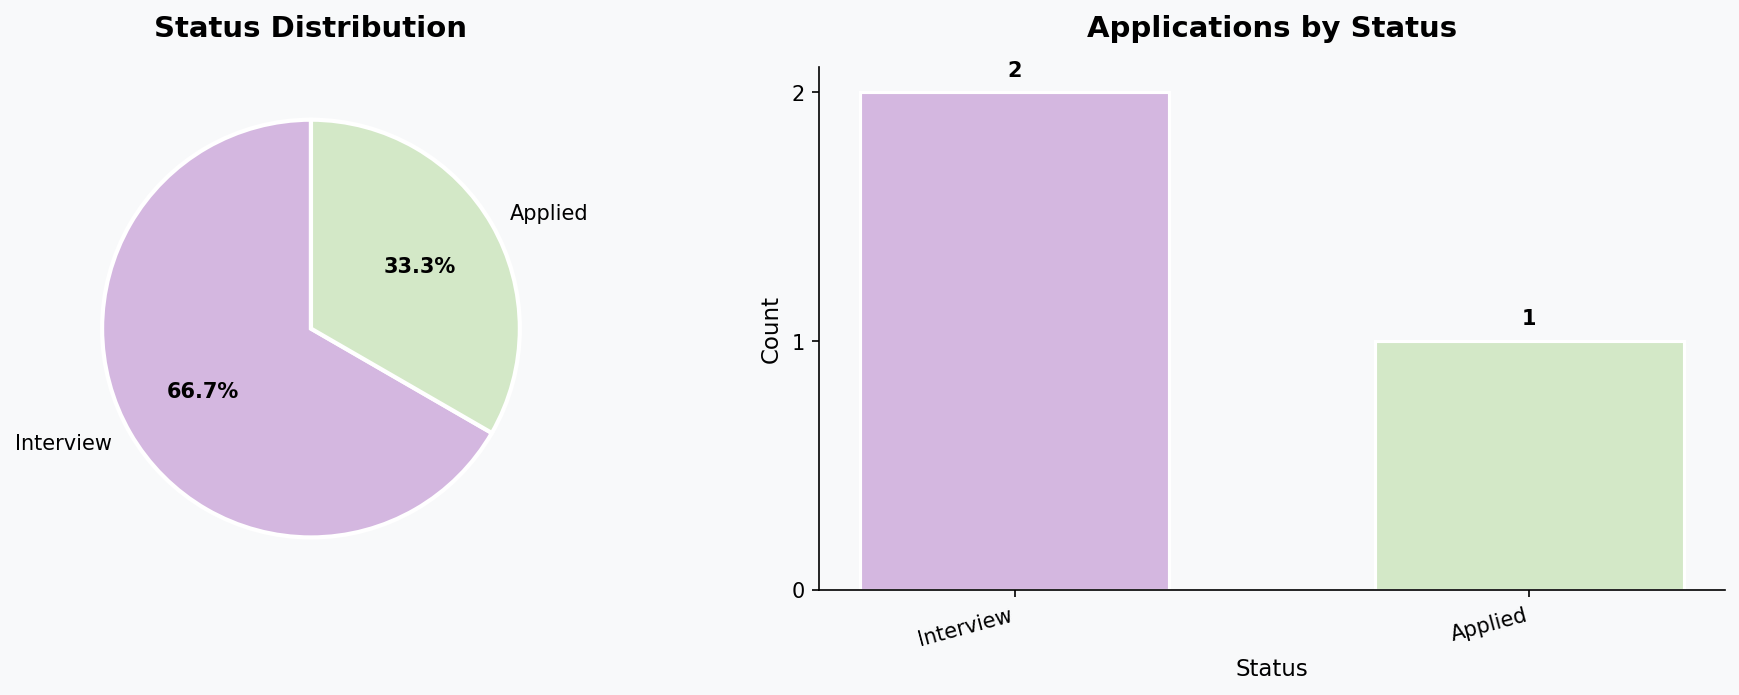
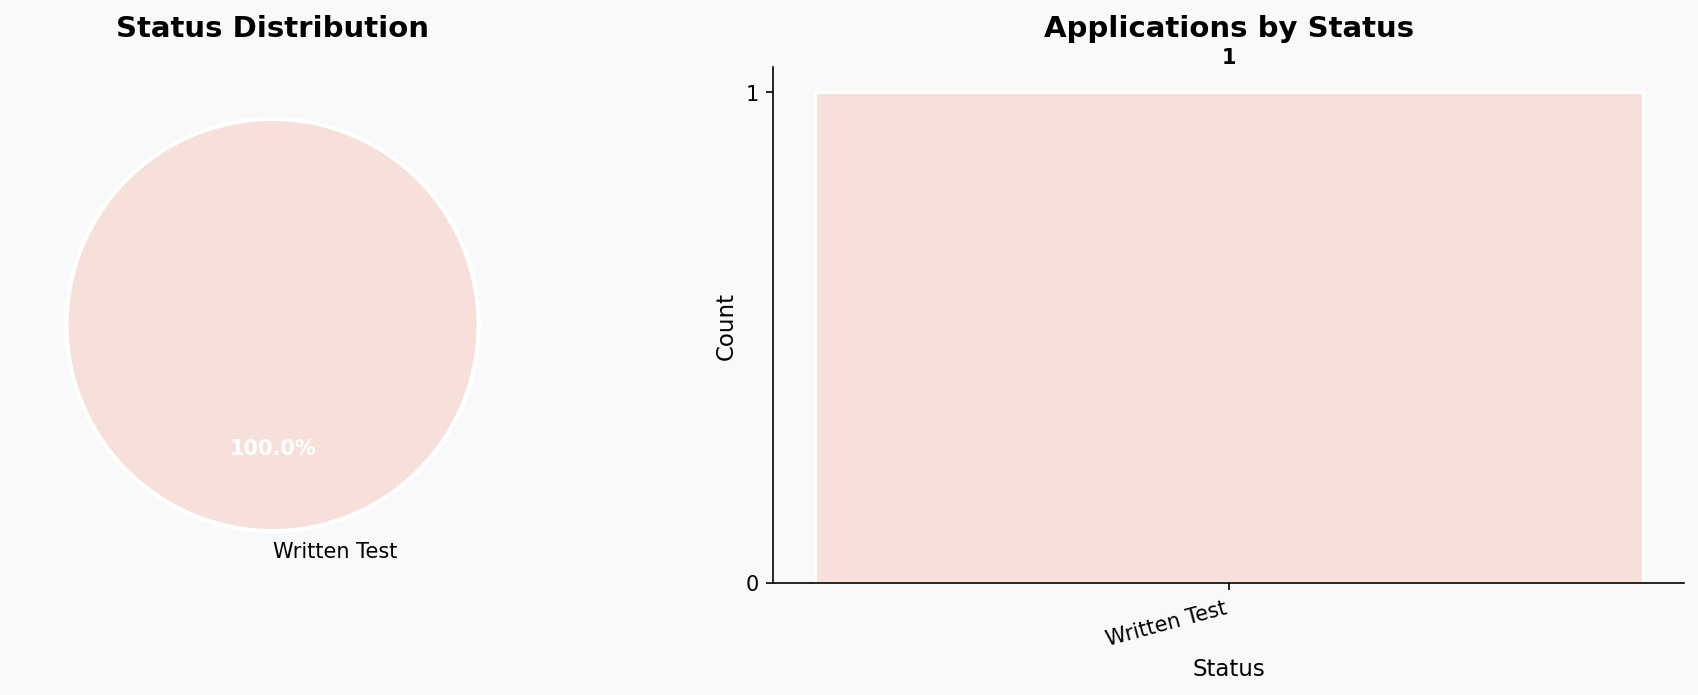
emial resume

diff --git a/templates/stats_page.html b/templates/stats_page.html
@@ -1,0 +1,286 @@
+<!DOCTYPE html>
+<html lang="en">
+<head>
+    <meta charset="UTF-8">
+    <title>Statistics</title>
+    <link rel="stylesheet" href="/static/style.css">
+    <script src="https://cdnjs.cloudflare.com/ajax/libs/Chart.js/4.4.0/chart.umd.min.js"></script>
+    <style>
+        body { background: #f0f2f5; }
+        .page-title {
+            font-size: 24px;
+            font-weight: 700;
+            color: #2c3e50;
+            margin-bottom: 24px;
+        }
+        .stats-grid {
+            display: grid;
+            grid-template-columns: repeat(5, 1fr);
+            gap: 14px;
+            margin-bottom: 24px;
+        }
+        .stat-box {
+            background: white;
+            border-radius: 12px;
+            padding: 20px;
+            text-align: center;
+            box-shadow: 0 2px 8px rgba(0,0,0,0.07);
+            border-top: 4px solid #ddd;
+        }
+        .stat-box h3 {
+            font-size: 32px;
+            font-weight: 700;
+            margin-bottom: 6px;
+        }
+        .stat-box p {
+            font-size: 12px;
+            color: #888;
+            text-transform: uppercase;
+            letter-spacing: 0.5px;
+        }
+        .stat-total { border-top-color: #2c3e50; }
+        .stat-total h3 { color: #2c3e50; }
+        .stat-interview { border-top-color: #9b59b6; }
+        .stat-interview h3 { color: #9b59b6; }
+        .stat-offer { border-top-color: #27ae60; }
+        .stat-offer h3 { color: #27ae60; }
+        .stat-rejected { border-top-color: #e74c3c; }
+        .stat-rejected h3 { color: #e74c3c; }
+        .stat-rate { border-top-color: #3498db; }
+        .stat-rate h3 { color: #3498db; }
+        .charts-grid {
+            display: grid;
+            grid-template-columns: 1fr 1fr;
+            gap: 20px;
+            margin-bottom: 20px;
+        }
+        .chart-card {
+            background: white;
+            border-radius: 14px;
+            padding: 24px;
+            box-shadow: 0 2px 10px rgba(0,0,0,0.08);
+        }
+        .chart-card h3 {
+            font-size: 15px;
+            font-weight: 700;
+            color: #2c3e50;
+            margin-bottom: 20px;
+        }
+        .chart-card-full {
+            background: white;
+            border-radius: 14px;
+            padding: 24px;
+            box-shadow: 0 2px 10px rgba(0,0,0,0.08);
+            margin-bottom: 20px;
+        }
+        .chart-card-full h3 {
+            font-size: 15px;
+            font-weight: 700;
+            color: #2c3e50;
+            margin-bottom: 20px;
+        }
+        .funnel-container {
+            display: flex;
+            flex-direction: column;
+            align-items: center;
+            gap: 8px;
+            padding: 10px 0;
+        }
+        .funnel-bar {
+            height: 44px;
+            border-radius: 8px;
+            display: flex;
+            align-items: center;
+            justify-content: center;
+            color: white;
+            font-size: 13px;
+            font-weight: 700;
+            transition: width 0.3s;
+        }
+        .empty-state {
+            text-align: center;
+            color: #ccc;
+            padding: 40px;
+            font-size: 14px;
+        }
+    </style>
+</head>
+<body>
+    <div class="navbar">
+        <div style="display:flex; align-items:center; gap:10px;">
+            <span style="font-size:20px;">📋</span>
+            <div>
+                <div style="font-weight:700; font-size:16px;">Job Application Tracker</div>
+                <div style="font-size:11px; color:#a0aec0; text-transform:uppercase; letter-spacing:1px;">Your Career Dashboard</div>
+            </div>
+        </div>
+        <div>
+            <a href="/dashboard">Dashboard</a>
+            <a href="/logout">Logout</a>
+        </div>
+    </div>
+
+    <div class="container" style="max-width:1100px;">
+        <div class="page-title">📊 Statistics</div>
+
+        <!-- 数字统计 -->
+        <div class="stats-grid">
+            <div class="stat-box stat-total">
+                <h3>{{ stats.total }}</h3>
+                <p>Total Applications</p>
+            </div>
+            <div class="stat-box stat-interview">
+                <h3>{{ stats.interviews }}</h3>
+                <p>Interviews</p>
+            </div>
+            <div class="stat-box stat-offer">
+                <h3>{{ stats.offers }}</h3>
+                <p>Offers</p>
+            </div>
+            <div class="stat-box stat-rejected">
+                <h3>{{ stats.rejected }}</h3>
+                <p>Rejected</p>
+            </div>
+            <div class="stat-box stat-rate">
+                <h3>{{ stats.interview_rate }}%</h3>
+                <p>Interview Rate</p>
+            </div>
+        </div>
+
+        {% if stats.total == 0 %}
+        <div class="chart-card">
+            <div class="empty-state">
+                <div style="font-size:48px; margin-bottom:16px;">📭</div>
+                <p>No applications yet. Add some to see your statistics!</p>
+            </div>
+        </div>
+        {% else %}
+
+        <!-- 图表1：饼图 + 柱状图 -->
+        <div class="charts-grid">
+            <div class="chart-card">
+                <h3>🥧 Status Distribution</h3>
+                <canvas id="pieChart" height="250"></canvas>
+            </div>
+            <div class="chart-card">
+                <h3>📊 Applications by Status</h3>
+                <canvas id="barChart" height="250"></canvas>
+            </div>
+        </div>
+
+        <!-- 图表2：折线图 -->
+        <div class="chart-card-full">
+            <h3>📈 Weekly Application Trend</h3>
+            {% if weekly_labels %}
+            <canvas id="lineChart" height="100"></canvas>
+            {% else %}
+            <div class="empty-state">Not enough data to show trend yet.</div>
+            {% endif %}
+        </div>
+
+        <!-- 图表3：漏斗图 -->
+        <div class="chart-card-full">
+            <h3>🔽 Application Funnel</h3>
+            <div class="funnel-container">
+                {% set funnel = [
+                    ('Applied', stats.total, '#3498db'),
+                    ('Written Test', applications | selectattr('status', 'in', ['Written Test', 'Interview', 'Offer']) | list | length, '#f39c12'),
+                    ('Interview', stats.interviews, '#9b59b6'),
+                    ('Offer', stats.offers, '#27ae60')
+                ] %}
+                {% set max_val = stats.total if stats.total > 0 else 1 %}
+                {% for label, count, color in funnel %}
+                {% set width = (count / max_val * 80 + 20) | int %}
+                <div class="funnel-bar" style="width:{{ width }}%; background:{{ color }};">
+                    {{ label }}: {{ count }}
+                </div>
+                {% endfor %}
+            </div>
+        </div>
+
+        {% endif %}
+    </div>
+
+    <script>
+        const colors = {
+            'Pending': '#95a5a6',
+            'Applied': '#3498db',
+            'Written Test': '#f39c12',
+            'Interview': '#9b59b6',
+            'Offer': '#27ae60',
+            'Rejected': '#e74c3c'
+        };
+
+        const applications = {{ applications | tojson }};
+        const statusCounts = {};
+        applications.forEach(app => {
+            statusCounts[app.status] = (statusCounts[app.status] || 0) + 1;
+        });
+        const labels = Object.keys(statusCounts);
+        const values = Object.values(statusCounts);
+        const bgColors = labels.map(l => colors[l] || '#3498db');
+
+        // 饼图
+        new Chart(document.getElementById('pieChart'), {
+            type: 'doughnut',
+            data: {
+                labels: labels,
+                datasets: [{ data: values, backgroundColor: bgColors, borderWidth: 2, borderColor: '#fff' }]
+            },
+            options: {
+                plugins: { legend: { position: 'bottom' } },
+                cutout: '60%'
+            }
+        });
+
+        // 柱状图
+        new Chart(document.getElementById('barChart'), {
+            type: 'bar',
+            data: {
+                labels: labels,
+                datasets: [{
+                    data: values,
+                    backgroundColor: bgColors,
+                    borderRadius: 6,
+                    borderSkipped: false
+                }]
+            },
+            options: {
+                plugins: { legend: { display: false } },
+                scales: {
+                    y: { beginAtZero: true, ticks: { stepSize: 1 }, grid: { color: '#f0f0f0' } },
+                    x: { grid: { display: false } }
+                }
+            }
+        });
+
+        // 折线图
+        {% if weekly_labels %}
+        new Chart(document.getElementById('lineChart'), {
+            type: 'line',
+            data: {
+                labels: {{ weekly_labels | tojson }},
+                datasets: [{
+                    label: 'Applications',
+                    data: {{ weekly_values | tojson }},
+                    borderColor: '#3498db',
+                    backgroundColor: 'rgba(52,152,219,0.1)',
+                    borderWidth: 2,
+                    fill: true,
+                    tension: 0.4,
+                    pointBackgroundColor: '#3498db',
+                    pointRadius: 5
+                }]
+            },
+            options: {
+                plugins: { legend: { display: false } },
+                scales: {
+                    y: { beginAtZero: true, ticks: { stepSize: 1 }, grid: { color: '#f0f0f0' } },
+                    x: { grid: { display: false } }
+                }
+            }
+        });
+        {% endif %}
+    </script>
+</body>
+</html>

diff --git a/app.py b/app.py
@@ -78,13 +78,15 @@ def add():
         return redirect(url_for('login'))
     if request.method == 'POST':
         username = session['username']
+        applications = load_applications(username)
         new_app = {
             'company': request.form['company'],
             'position': request.form['position'],
             'date': request.form['date'],
             'status': request.form['status']
         }
-        add_application(username, new_app)
+        applications.append(new_app)
+        save_applications(username, applications)
         return redirect(url_for('dashboard'))
     return render_template('add.html')
 # ─── Delete Application ─────────────────────────────
@@ -199,5 +201,38 @@ def emails_drafts():
     if 'username' not in session:
         return redirect(url_for('login'))
     return render_template('emails_drafts.html')
+
+
+@app.route('/stats')
+def stats():
+    if 'username' not in session:
+        return redirect(url_for('login'))
+    username = session['username']
+    applications = load_applications(username)
+    from stats import show_stats, generate_chart
+    stats_data = show_stats(applications) or {
+        'total': 0, 'interviews': 0,
+        'offers': 0, 'rejected': 0, 'interview_rate': 0
+    }
+    generate_chart(applications)
+    
+    # 每周投递数据
+    from datetime import datetime, timedelta
+    weekly = {}
+    for app in applications:
+        try:
+            date = datetime.strptime(app['date'], '%Y-%m-%d')
+            week = date.strftime('%Y-W%W')
+            weekly[week] = weekly.get(week, 0) + 1
+        except:
+            pass
+    weekly_labels = sorted(weekly.keys())
+    weekly_values = [weekly[w] for w in weekly_labels]
+
+    return render_template('stats_page.html',
+                           stats=stats_data,
+                           applications=applications,
+                           weekly_labels=weekly_labels,
+                           weekly_values=weekly_values)
 if __name__ == '__main__':
     app.run(debug=True)
